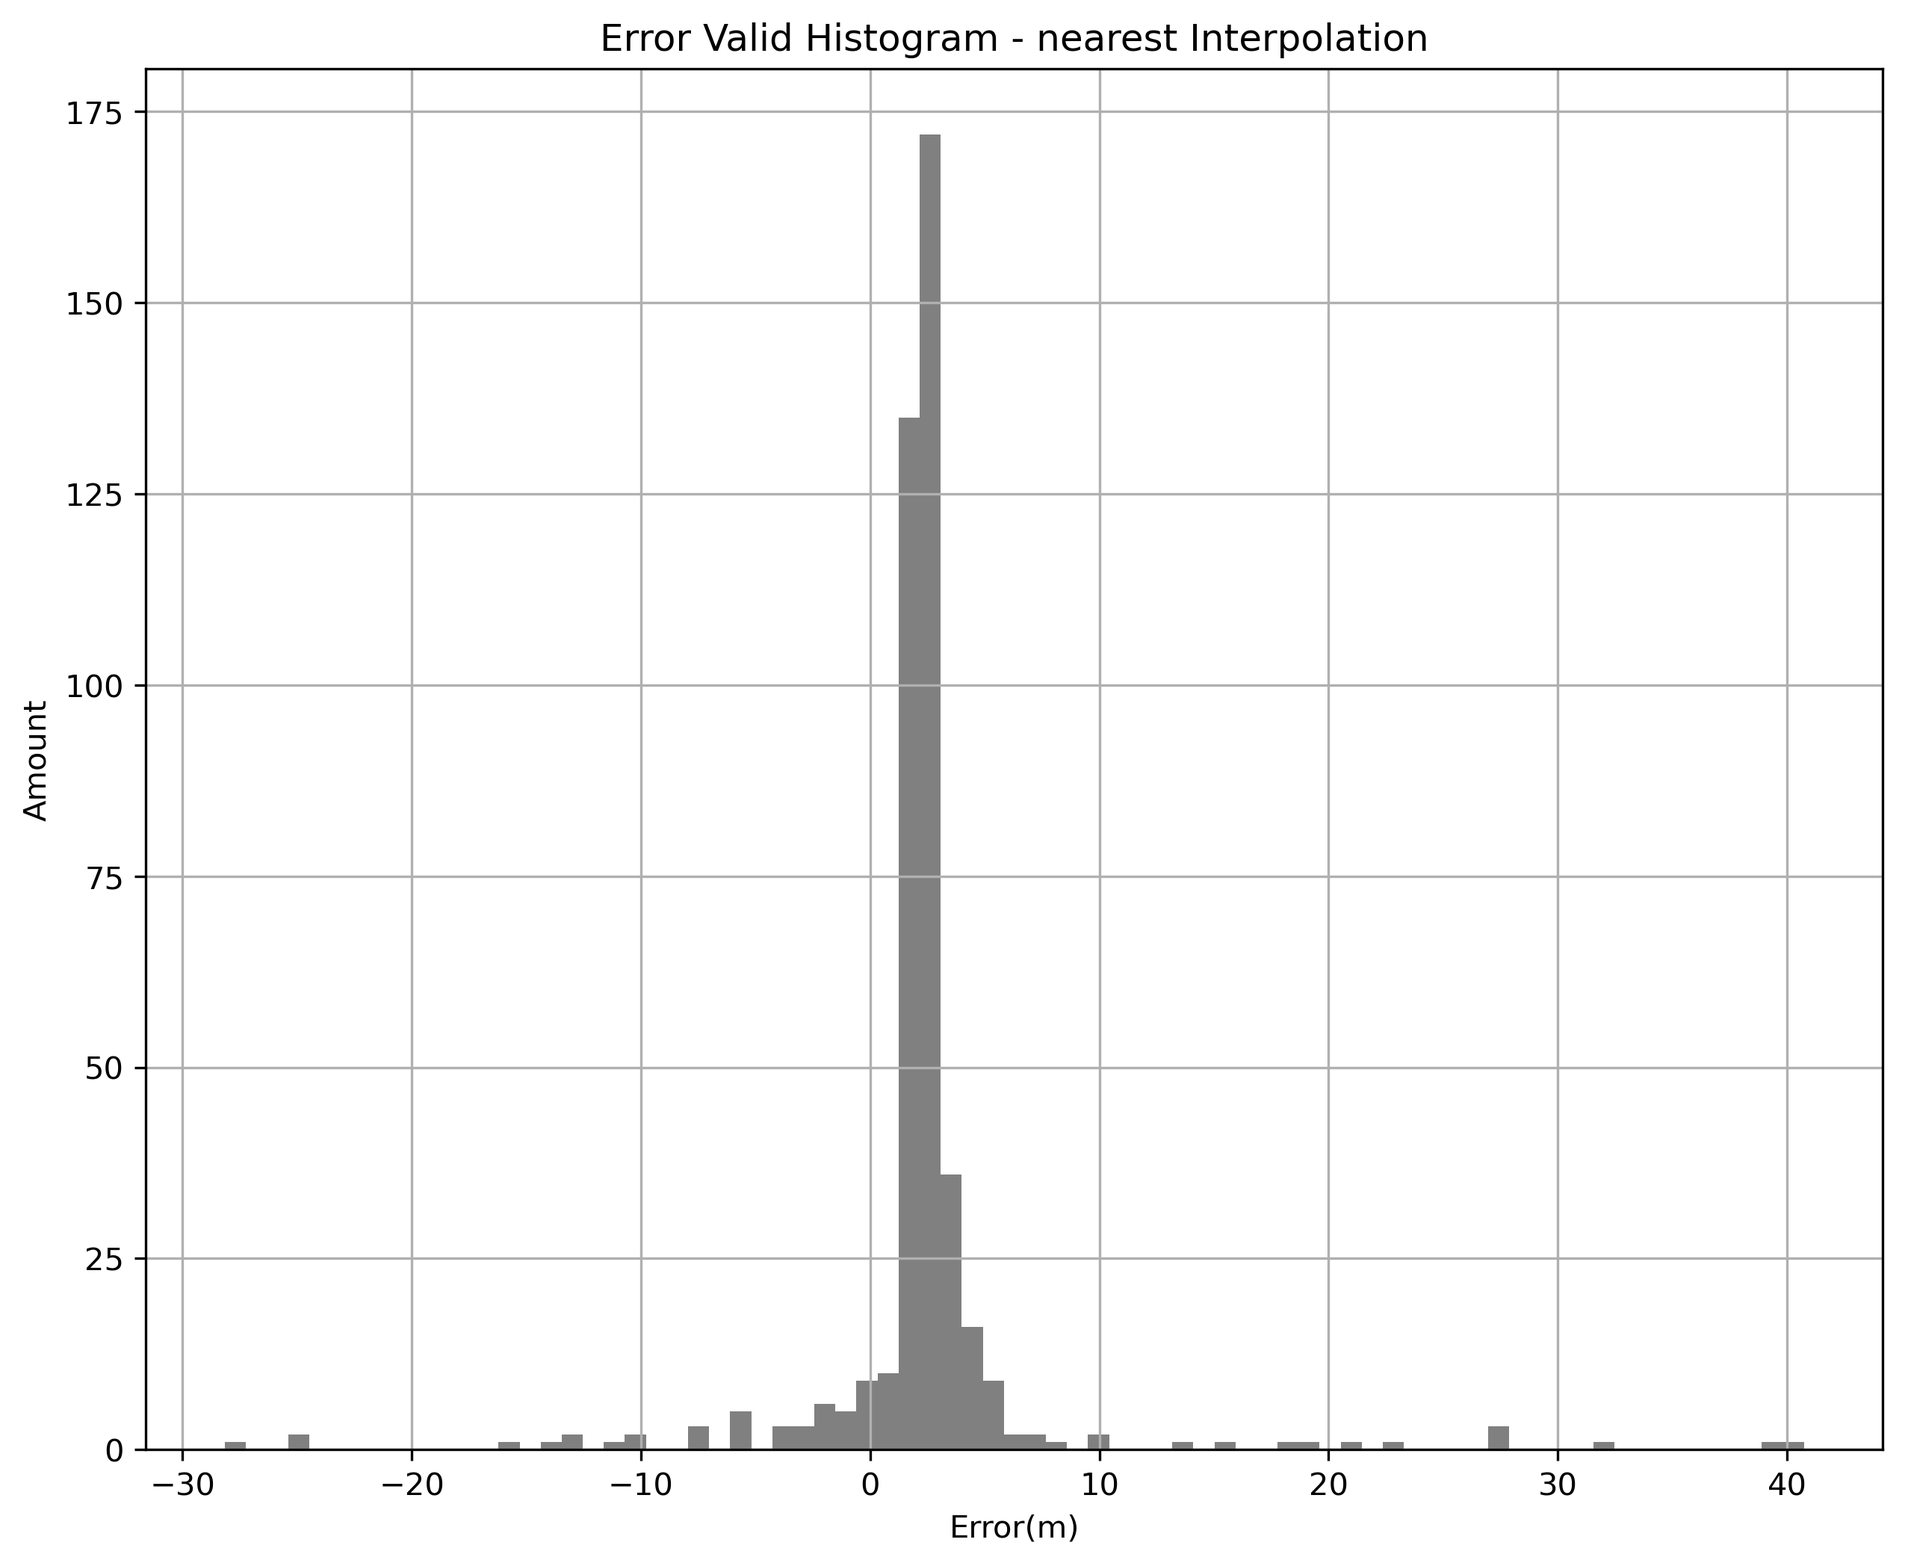
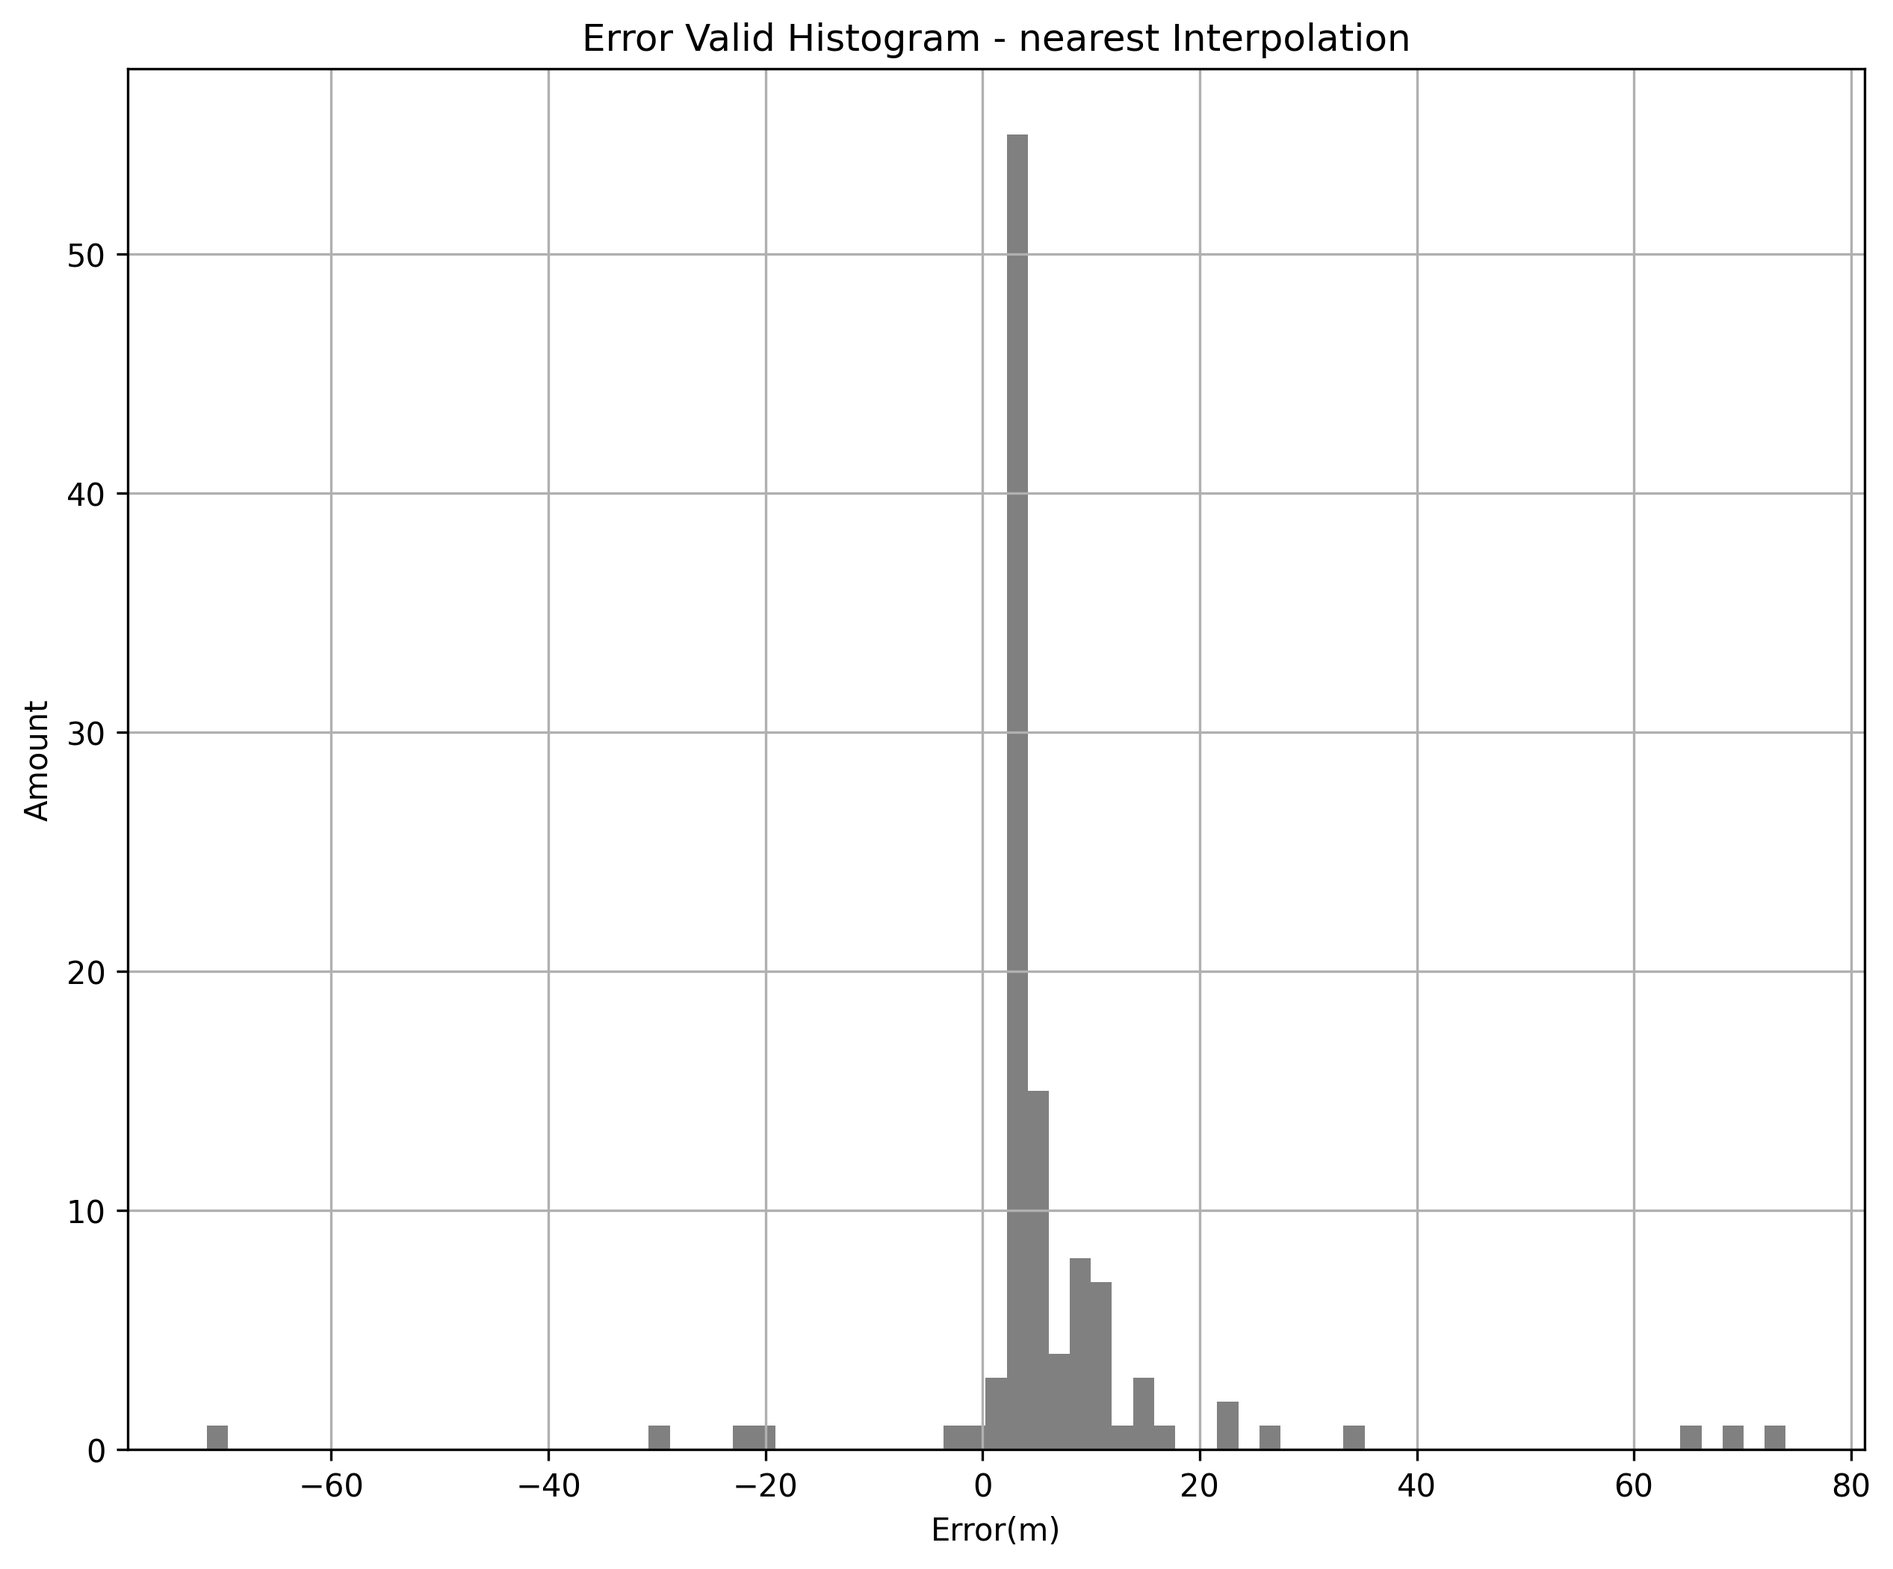
Final Change In code that is like Interpolation

diff --git a/kcn-torch-master/experiment.py b/kcn-torch-master/experiment.py
@@ -8,7 +8,14 @@ import networkx as nx
 import matplotlib.pyplot as plt
 from torch_geometric.utils import to_networkx
 import os
-from basic_interp import MAP, MSE
+
+def MSE(y_true, y_pred):
+    return np.mean((y_true - y_pred) ** 2)
+#def MAPE(y_true, y_pred):
+    
+    
+def MAP(y_true, y_pred):
+    return np.sum(np.abs(y_true - y_pred))/len(y_true)
 
 def run_kcn(args):
     """ Train and test a KCN model on a train-test split  
@@ -84,8 +91,8 @@ def run_kcn(args):
             batch_coords, batch_features, batch_y = model.trainset[batch_ind]
 
             # make predictions and compute the average loss
-            pred = model(batch_coords, batch_features,args, args.top_k, batch_ind)
-            loss = loss_func(pred, batch_y.to(args.device))
+            pred = model(batch_coords, batch_y, batch_features,args, args.top_k, batch_ind)
+            loss = loss_func(pred.squeeze(), batch_y.to(args.device).squeeze())
 
             # update parameters
             optimizer.zero_grad()
@@ -94,18 +101,19 @@ def run_kcn(args):
 
             # record the training error
             batch_train_error.append(loss.item())
-
-        train_loss = sum(batch_train_error) / len(batch_train_error)
-        epoch_train_loss.append(train_loss)
+        with torch.no_grad():
+            train_loss = sum(batch_train_error) / len(batch_train_error)
+            epoch_train_loss.append(train_loss)
         
         # Compute and store training predictions
         model.eval()
         with torch.no_grad():
-            train_pred = model(trainset.coords, trainset.features, args,args.top_k)
+            #print(trainset.y)
+            train_pred = model(trainset.coords, trainset.y, trainset.features, args,args.top_k)
 
             # Move y_std and y_mean to the same device
-            y_std = trainset.y_std.to(args.device)
-            y_mean = trainset.y_mean.to(args.device)
+            y_std = trainset.y_std.cpu().numpy().squeeze()
+            y_mean = trainset.y_mean.cpu().numpy().squeeze()
 
             train_pred = train_pred * y_std + y_mean
         '''
@@ -116,19 +124,19 @@ def run_kcn(args):
         model.eval()
         with torch.no_grad():
             # make predictions and calculate the error
-            valid_pred = model(validset.coords, validset.features, args,args.top_k)
+            valid_pred = model(validset.coords, validset.y, validset.features, args,args.top_k)
             #valid_pred = valid_pred * trainset.y_std + trainset.y_mean
             valid_loss = loss_func(valid_pred, validset.y.to(args.device))
             valid_pred = valid_pred * trainset.y_std.to(args.device) + trainset.y_mean.to(args.device)
-
-            # Accuracies metrics:
-            valid_error = validset.y.detach().cpu().numpy() - valid_pred.detach().cpu().numpy()
-            train_error = trainset.y.detach().cpu().numpy() - train_pred.detach().cpu().numpy()
             
-            valid_mse = MSE(validset.y.detach().cpu().numpy(), valid_pred.detach().cpu().numpy())
-            train_mse = MSE(trainset.y.detach().cpu().numpy(), train_pred.detach().cpu().numpy())
-            valid_map = MAP(validset.y.detach().cpu().numpy(), valid_pred.detach().cpu().numpy())
-            train_map = MAP(trainset.y.detach().cpu().numpy(), train_pred.detach().cpu().numpy())
+            # Accuracies metrics:
+            valid_error = validset.y.detach().cpu().numpy()* y_std + y_mean - valid_pred.detach().cpu().numpy()
+            train_error = trainset.y.detach().cpu().numpy()* y_std + y_mean - train_pred.detach().cpu().numpy()
+            
+            valid_mse = MSE(validset.y.detach().cpu().numpy()* y_std + y_mean, valid_pred.detach().cpu().numpy())
+            train_mse = MSE(trainset.y.detach().cpu().numpy()* y_std + y_mean, train_pred.detach().cpu().numpy())
+            valid_map = MAP(validset.y.detach().cpu().numpy()* y_std + y_mean, valid_pred.detach().cpu().numpy())
+            train_map = MAP(trainset.y.detach().cpu().numpy()* y_std + y_mean, train_pred.detach().cpu().numpy())
             #rmse = np.sqrt(np.mean((y_true - y_pred) ** 2))
             #r2 = 1 - np.sum((y_true - y_pred)**2) / np.sum((y_true - y_true.mean())**2)
             #acc_5m = np.mean(np.abs(y_true - y_pred) < 5)
@@ -168,13 +176,14 @@ def run_kcn(args):
         with open("logs/loss_tracking_{args.dataset}_k{args.n_neighbors}_keep_n{args.keep_n}.txt", "a") as f:
             f.write(f"{epoch},{train_loss:.6f},{valid_loss.item():.6f}\n")
 
-        
-        test_preds = model(testset.coords, testset.features, args, args.top_k) #MAKE SURE THIS IS OK
+        y_zeros = torch.zeros(testset.y.shape[0])
+        print(f"Y_Zeros:{y_zeros}")
+        test_preds = model(testset.coords, y_zeros,testset.features, args, args.top_k) #MAKE SURE THIS IS OK
         test_loss = loss_func(test_preds, testset.y.to(args.device))
         test_preds = test_preds.to(args.device) * trainset.y_std.to(args.device) + trainset.y_mean.to(args.device)
-        test_error = testset.y.detach().cpu().numpy() - test_preds.detach().cpu().numpy()
-        test_mse = MSE(testset.y.detach().cpu().numpy(), test_preds.detach().cpu().numpy())
-        test_map = MAP(testset.y.detach().cpu().numpy(), test_preds.detach().cpu().numpy())
+        test_error = testset.y.detach().cpu().numpy() * y_std + y_mean - test_preds.detach().cpu().numpy()
+        test_mse = MSE(testset.y.detach().cpu().numpy()* y_std + y_mean, test_preds.detach().cpu().numpy())
+        test_map = MAP(testset.y.detach().cpu().numpy()* y_std + y_mean, test_preds.detach().cpu().numpy())
         #test_map = np.mean(np.abs(testset.y.detach().numpy() - test_pred.detach().numpy()))
         print(f"Test loss is {test_loss}")
         print(f"Test MSE is {test_mse}")

diff --git a/kcn-torch-master/kcn.py b/kcn-torch-master/kcn.py
@@ -37,7 +37,7 @@ class KCN(torch.nn.Module):
                         if(args.form_input_graph == 'original'):
                             att_graph = self.form_input_graph(self.trainset.coords[i], self.trainset.features[i], self.train_neighbors[i])
                         if(args.form_input_graph == 'mine'):
-                            att_graph = self.form_input_graph_mine(self.trainset.coords[i], self.trainset.features[i], self.train_neighbors[i],args.top_k)
+                            att_graph = self.form_input_graph_mine(self.trainset.coords[i],self.trainset.y[i], self.trainset.features[i], self.train_neighbors[i],args.top_k)
                         self.graph_inputs.append(att_graph)
                 torch.save(self.graph_inputs, cache_path)    
             print(f"len of graph_inputs:{len(self.graph_inputs)}",file=f)
@@ -72,7 +72,7 @@ class KCN(torch.nn.Module):
         self.gnn = self.gnn.to(self.device)
 
 # %%
-    def forward(self, coords, features, args, top_k, train_indices=None):
+    def forward(self, coords, y,features, args, top_k, train_indices=None):
         if train_indices is not None:
             
             # if from training set, then read in pre-computed graphs
@@ -94,7 +94,8 @@ class KCN(torch.nn.Module):
                     if(args.form_input_graph == "original"):
                             att_graph = self.form_input_graph(coords[i], features[i], neighbors[i])
                     if(args.form_input_graph == "mine"):
-                            att_graph = self.form_input_graph_mine(coords[i], features[i], neighbors[i],args.top_k)
+                            #print(f"Y is: {y[i]}")
+                            att_graph = self.form_input_graph_mine(coords[i], y[i],features[i], neighbors[i],args.top_k)
                     #att_graph = self.form_input_graph(coords[i], features[i], neighbors[i])
                     #att_graph = self.form_input_graph_mine(self.trainset.coords[i], self.trainset.features[i], self.train_neighbors[i],args.top_k)
                     batch_inputs.append(att_graph)
@@ -113,13 +114,15 @@ class KCN(torch.nn.Module):
 
         return pred
 # %%
-    def form_input_graph_mine(self, coord, feature, neighbors,top_k):
+    def form_input_graph_mine(self, coord, y_in, feature, neighbors,top_k):
     
-        output_dim = self.trainset.y.shape[1] 
-
+        #output_dim = self.trainset.y.shape[1] 
+        output_dim = self.trainset.y.shape[1]
+        #print(f"Y is:{y_in}")
         # label inputs
+        #y_in.view(1, -1)
         y = torch.concat([torch.zeros([1, output_dim]), self.trainset.y[neighbors]], axis=0) #[0, y_neighbor_1, y_neigbor_2,...], shape: 1x(output_dim*(1+len(neighbors)))
-    
+
         # indicator
         indicator = torch.zeros([neighbors.shape[0] + 1])
         indicator[0] = 1.0 #[1,0,0,0,0,0], shape: 1*(neighbors.shape[0] + 1)
@@ -317,7 +320,7 @@ def neighbors_reduction(adj: torch.Tensor, num_hops: int = 3, top_k: int = 5):
 
     # for hop in range(2, num_hops + 1):
     #     A_power = torch.matmul(A_power, adj)
-    #     combined_adj += (decay ** (hop - 1)) * A_power
+    #     combined_adj += A_power#(decay ** (hop - 1)) * A_power
 
     # # Optional: rescale to keep weights in [0, 1]
     # combined_adj = combined_adj / combined_adj.max()

diff --git a/kcn-torch-master/main.py b/kcn-torch-master/main.py
@@ -48,14 +48,13 @@ import torch
 
 # %%
 args = argument.parse_opt()
-args.keep_n = 0.005*10/10
+args.keep_n = 0.005/4
 args.form_input_graph = 'mine'
-args.model = 'kcn'
+args.model = 'kcn_gat'
 print(args.dataset)
 print(args.n_neighbors)
 args.dataset = "n32_e035_1arc_v3_cropped"
 print(args.dataset)
-args.model = 'kcn'
 test_error, test_preds, testset, epoch_valid_loss, epoch_valid_error, epoch_valid_mse, epoch_valid_map, epoch_train_loss, epoch_train_error, epoch_train_mse, epoch_train_map = experiment.run_kcn(args)
 
 epochs = list(range(len(epoch_valid_loss)))
@@ -64,12 +63,64 @@ plt.figure(figsize=(10, 6))
 plt.plot(epochs, epoch_train_loss, label='Train Loss', marker='o')
 plt.plot(epochs, epoch_valid_loss, label='Validation Loss', marker='x')
 plt.xlabel("Epoch")
-plt.ylabel("MSE")
-plt.title("Training and Validation Error Over Epochs")
+plt.ylabel("MSE Loss")
+plt.title("Training and Validation Loss Over Epochs")
 plt.legend()
 plt.grid(True)
 plt.tight_layout()
 plt.show()
+
+# plt.figure(figsize=(10, 6))
+# plt.plot(epochs, epoch_train_error, label='Train Loss', marker='o')
+# plt.plot(epochs, epoch_valid_error, label='Validation Loss', marker='x')
+# plt.xlabel("Epoch")
+# plt.ylabel("Error: Estimated - True")
+# plt.title("Training and Validation Error: Estimated - True")
+# plt.legend()
+# plt.grid(True)
+# plt.tight_layout()
+# plt.show()
+
+plt.figure(figsize=(10, 6))
+plt.plot(epochs, epoch_train_mse, label='Train Loss', marker='o')
+plt.plot(epochs, epoch_valid_mse, label='Validation Loss', marker='x')
+plt.xlabel("Epoch")
+plt.ylabel("Self MSE Defnition")
+plt.title("Training and Validation Self MSE Defnition")
+plt.legend()
+plt.grid(True)
+plt.tight_layout()
+plt.show()
+
+plt.figure(figsize=(10, 6))
+plt.plot(epochs, epoch_train_map, label='Train Loss', marker='o')
+plt.plot(epochs, epoch_valid_map, label='Validation Loss', marker='x')
+plt.xlabel("Epoch")
+plt.ylabel("Self MAP Defnition")
+plt.title("Training and Validation Self MAP Defnition")
+plt.legend()
+plt.grid(True)
+plt.tight_layout()
+plt.show()
+
+# Plot
+plt.figure(figsize=(10, 8))
+sc = plt.scatter(testset.coords[:, 1].numpy(), testset.coords[:, 0].numpy(), c=test_error.detach().numpy(), cmap="coolwarm", s=5)
+plt.colorbar(sc, label="Prediction Error (m)")
+plt.xlabel("Longitude")
+plt.ylabel("Latitude")
+plt.title("Spatial Distribution of Prediction Errors")
+plt.grid(True)
+plt.show()
+
+
+plt.hist(test_error.detach().numpy(), bins=100, color='gray')
+plt.title("Prediction Error Histogram")
+plt.xlabel("Error (Prediction - True)")
+plt.ylabel("Frequency")
+plt.grid(True)
+plt.show()
+
 
 # %%
 

diff --git a/kcn-torch-master/basic_interp.py b/kcn-torch-master/basic_interp.py
@@ -4,6 +4,8 @@ import numpy as np
 import torch
 import matplotlib
 from matplotlib import pyplot as plt
+from sklearn.metrics import mean_squared_error
+#mse = mean_squared_error(targets, predictions)
 #matplotlib.use("TkAgg")  # Force GUI backend
 
 # Accuracy Metrics
@@ -15,9 +17,9 @@ def MSE(y_true, y_pred):
 def MAP(y_true, y_pred):
     return np.sum(np.abs(y_true - y_pred))/len(y_true)
 
-trainset = torch.load(r"./cache/trainset_n32_e035_1arc_v3_cropped_k100_keep_n0.005.pt",weights_only=False)
-validset = torch.load(r"./cache/validset_n32_e035_1arc_v3_cropped_k100_keep_n0.005.pt",weights_only=False)
-testset = torch.load(r"./cache/testset_n32_e035_1arc_v3_cropped_k100_keep_n0.005.pt",weights_only=False)
+trainset = torch.load(r"./cache/trainset_n32_e035_1arc_v3_cropped_k50_keep_n0.00125.pt",weights_only=False)
+validset = torch.load(r"./cache/validset_n32_e035_1arc_v3_cropped_k50_keep_n0.00125.pt",weights_only=False)
+testset = torch.load(r"./cache/testset_n32_e035_1arc_v3_cropped_k50_keep_n0.00125.pt",weights_only=False)
 
 # Convert tensors to numpy
 train_coords = trainset.coords.detach().cpu().numpy()
@@ -38,14 +40,14 @@ test_y_interp = griddata(train_coords, train_y, test_coords,method=interp_method
 # Valid
 interp_map_valid = MAP(valid_y_true, valid_y_interp)
 interp_mse_valid = MSE(valid_y_true, valid_y_interp)
-print(f"mean mse on valid: {interp_mse_valid}")
-print(f"mean map on valid: {interp_map_valid}")
+print(f"mse on valid: {interp_mse_valid}")
+print(f"map on valid: {interp_map_valid}")
 
 # Test
 interp_map_test = MAP(test_y_true, test_y_interp)
 interp_mse_test = MSE(test_y_true, test_y_interp)
-print(f"mean mse on test: {interp_mse_test}")
-print(f"mean map on test: {interp_map_test}")
+print(f"mse on test: {interp_mse_test}")
+print(f"map on test: {interp_map_test}")
 
 #
 test_error = test_y_true - test_y_interp

diff --git a/kcn-torch-master/argument.py b/kcn-torch-master/argument.py
@@ -23,8 +23,8 @@ def parse_opt():
     parser.add_argument('--use_default_test_set', type=bool, default=False, help='Use the default test set from the data')
     
     parser.add_argument('--model', type=str, default='kcn', help='One of three model types, kcn, kcn_gat, kcn_sage, which use GCN, GAT, and GraphSAGE respectively')
-    parser.add_argument('--n_neighbors', type=int, default=100, help='Number of neighbors')
-    parser.add_argument('--top_k', type=int, default=10, help='Number of neighbors')
+    parser.add_argument('--n_neighbors', type=int, default=50, help='Number of neighbors')
+    parser.add_argument('--top_k', type=int, default=5, help='Number of neighbors')
     parser.add_argument('--length_scale', default="auto", help='Length scale for RBF kernel. If set to "auto", then it will be set to the median of neighbor distances')
     parser.add_argument('--hidden_sizes', type=list, default=[64, 128, 256], help='Number of units in hidden layers, also decide the number of layers')
     parser.add_argument('--dropout', type=float, default=0.01, help='Dropout rate (1 - keep probability).')

diff --git a/kcn-torch-master/sets_visualize.py b/kcn-torch-master/sets_visualize.py
@@ -10,9 +10,9 @@ import torch
 
 # Load sets (adjust paths if needed)
 torch.serialization.add_safe_globals([SpatialDataset])
-trainset = torch.load("cache/trainset_n32_e035_1arc_v3_cropped_k50_keep_n0.005.pt", map_location="cpu")
-validset = torch.load("cache/validset_n32_e035_1arc_v3_cropped_k50_keep_n0.005.pt", map_location="cpu")
-testset = torch.load("cache/testset_n32_e035_1arc_v3_cropped_k50_keep_n0.005.pt", map_location="cpu")
+trainset = torch.load("cache/trainset_n32_e035_1arc_v3_cropped_k50_keep_n0.00125.pt", map_location="cpu")
+validset = torch.load("cache/validset_n32_e035_1arc_v3_cropped_k50_keep_n0.00125.pt", map_location="cpu")
+testset = torch.load("cache/testset_n32_e035_1arc_v3_cropped_k50_keep_n0.00125.pt", map_location="cpu")
 
 # Extract coordinates
 train_coords = trainset.coords.numpy()

diff --git a/kcn-torch-master/graph_visualize.py b/kcn-torch-master/graph_visualize.py
@@ -8,7 +8,7 @@ import torch.serialization
 
 
 # Load saved graphs (adjust path and k, keep_n accordingly)
-graph_inputs = torch.load("cache/graph_inputs_n32_e035_1arc_v3_cropped_k100_keep_n0.005.pt", weights_only=False ,map_location="cpu")
+graph_inputs = torch.load("cache/graph_inputs_n32_e035_1arc_v3_cropped_k50_keep_n0.00125.pt", weights_only=False ,map_location="cpu")
 
 # Choose an index to visualize (e.g., 0, or a random sample)
 idx = 2
